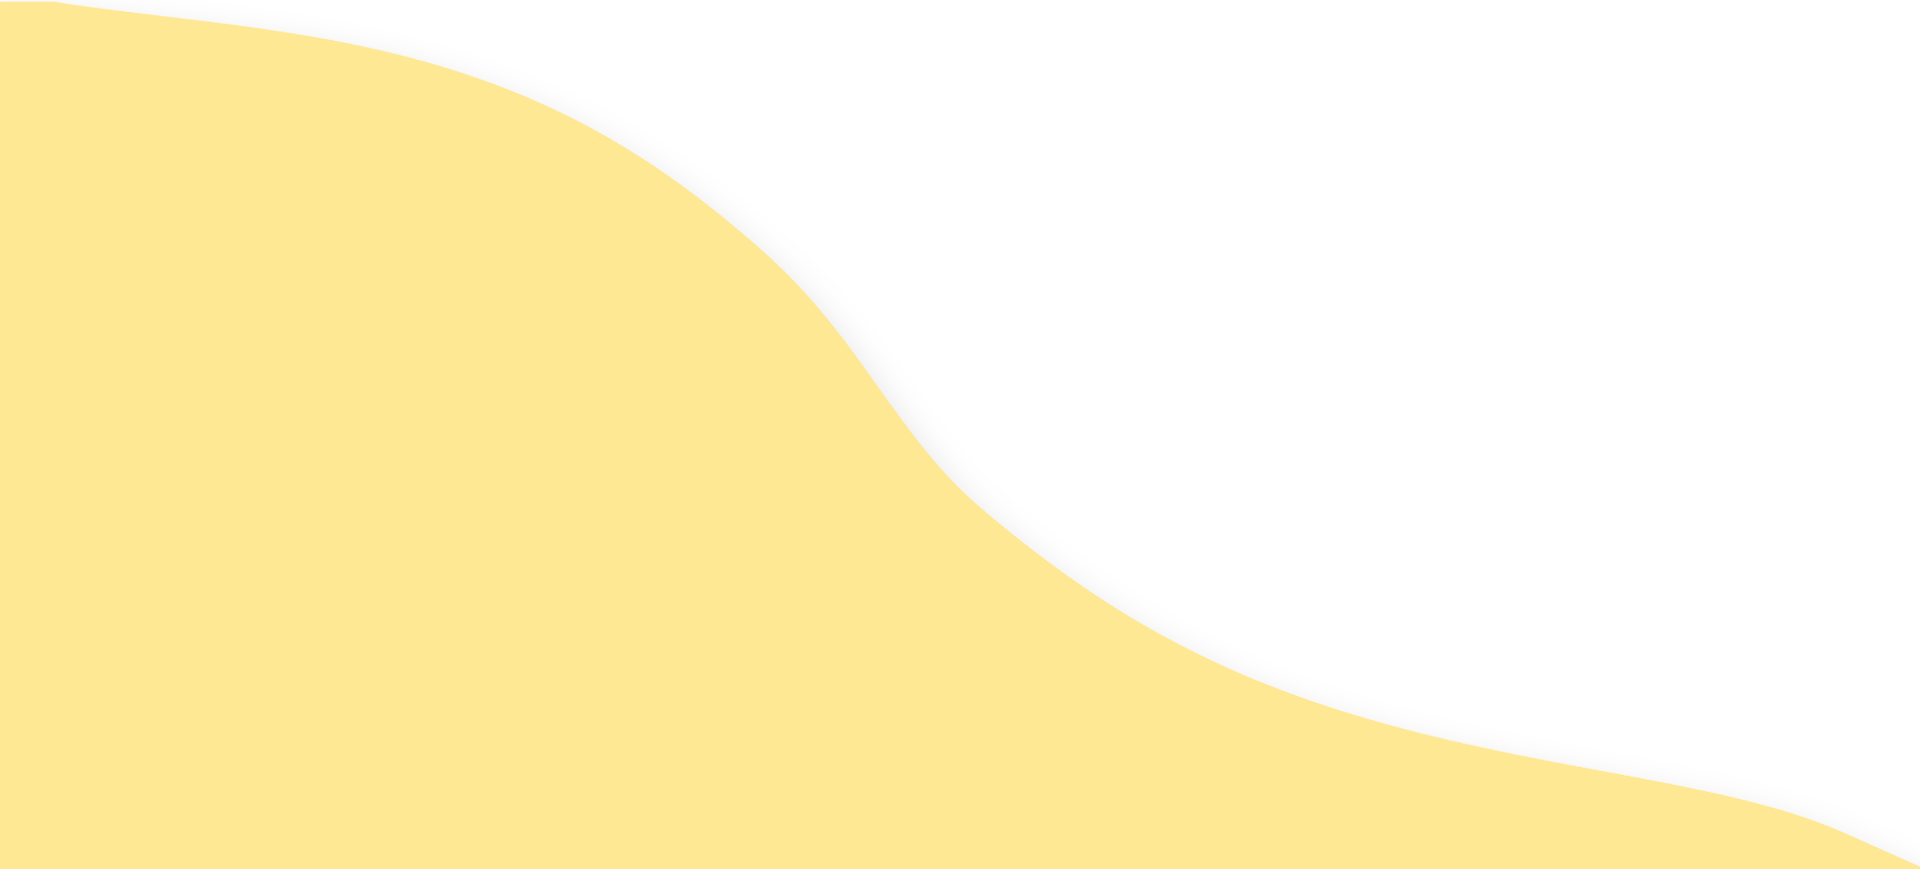
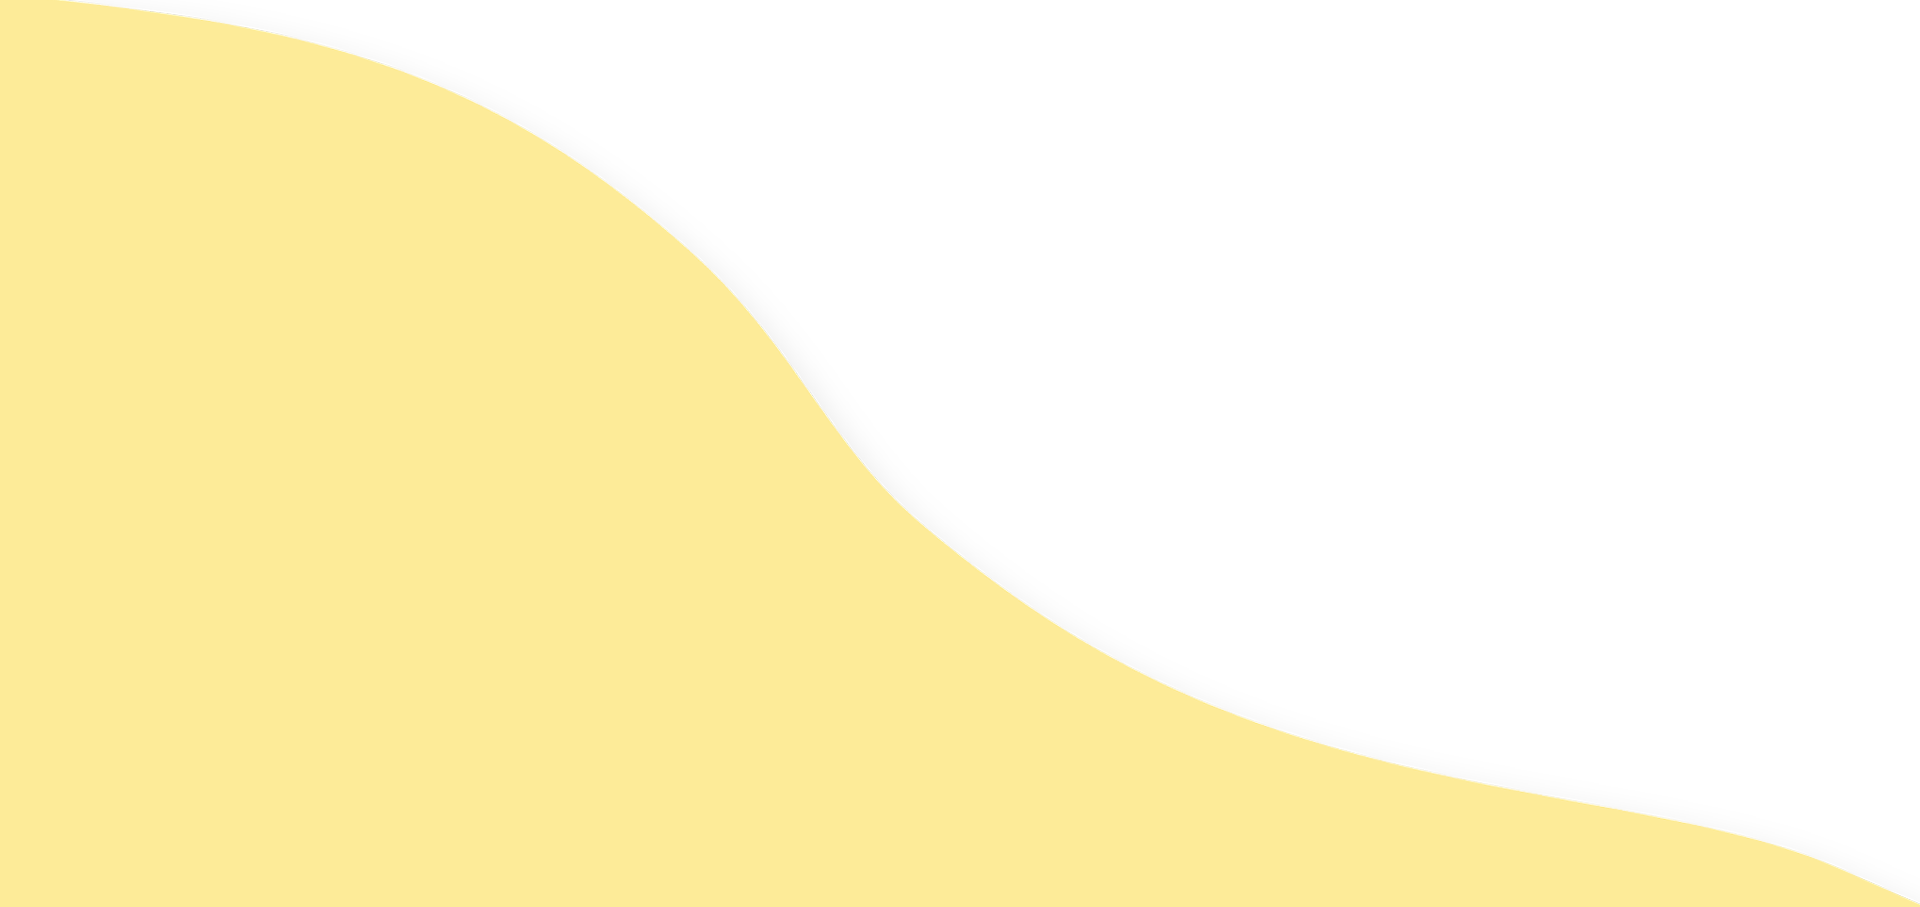
1

diff --git a/Project/index.html b/Project/index.html
@@ -44,8 +44,8 @@
     <!--melanzana centrale-->
     <div class=" flex flex-col items-center">
         <!--Melanzana wrapper-->
-        <div class="flex justify-center mt-20 pt-20 lg:pt-1 items-center ml-4 mr-4 lg:pt-20">
-            <img src="./IMG/illustrazioni freschezze al volo/composizione melanzane con tagliere_.png" alt="cassetta melenzane ortaggi illistrazione con ombra" class="lg:max-w-2xl max-w-md">
+        <div class="flex justify-center mt-20 pt-20 items-center ml-4 mr-4 lg:pt-20 md:pt-10">
+            <img src="./IMG/illustrazioni freschezze al volo/Sfondo Home_.png" alt="cassetta melenzane ortaggi illistrazione con ombra" class="pt-20 lg:pt-0">
 
         </div>
         <!--Melanzana wrapper EDN-->
@@ -57,8 +57,8 @@
             font-family: 'Dancing Script', cursive;">Freschezza al Volo</h1>
             
             <br><br>
-            <div class="flex items-center">
-                <img src="./IMG/illustrazioni freschezze al volo/Timbro 100% Siciliana.png" alt="timbro 100% azienda siciliana png">
+            <div class="flex items-center justify-center mt-20 mb-10">
+                <img src="./IMG/Timbro Rotondo 100% Siciliana_.png" alt="timbro 100% azienda siciliana png">
             </div>
 
         </div>
@@ -84,9 +84,8 @@
             <div class="text-center lg:text-left m-5 lg:text-3xl">
                 
                 <h1 class="font-bold italic text-3xl">La nostra mission</h1>
+                <br>
                 <h2>_________</h2>
-                
-               <br>
                 <h1>Ogni giorno raccogliamo nei campi i nostri ortaggi,
                     li selezioniamo e li portiamo nei mercati e nei punti
                     vendita, sicuri di offrire sempre prodotti di qualità.</h1>
@@ -107,9 +106,10 @@
             <!--Frase wrapper-->
             <div class="m-5 text-center lg:text-left lg:text-3xl">
                 <h1 class="font-bold itali text-3xl">La nostra vision</h1>
+                <br>
                 <h2>_________</h2>
              
-               <br>
+               
                 <h1>Dopo aver investito in un nuovo progetto di filiera, FreschezzaAlVolo si impegna a suopervisionare
                      tutti i processi della catena agroalimentare,
                      partendo dalla colitivazione fino ad arrivare alla vendita diretta dei propri prodotti in modo da 

diff --git a/tailwind.config.js b/tailwind.config.js
@@ -2,7 +2,7 @@
 module.exports = {
   content: ["./Project/azienda.html", "./Project/index.html", "./Project/contatti.html", "./Project/prodotti.html", "./Project/index.js"],
   theme: {
-    colors: {}
+   
     extend: {},
   },
   plugins: [],
